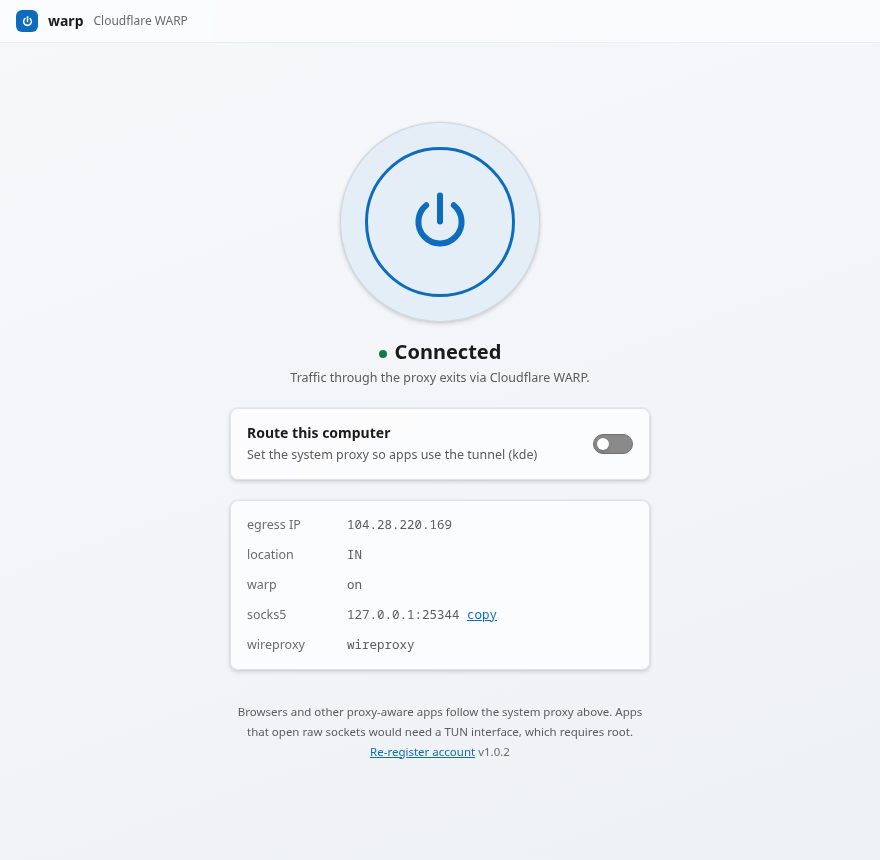
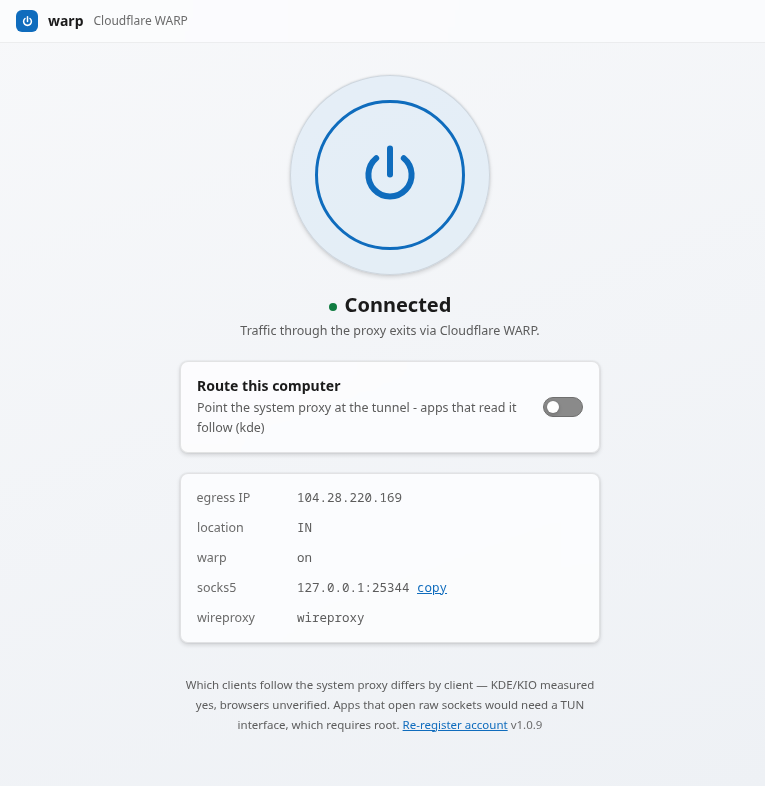
refresh the screenshots, and retract the last three copies of the claim they showed
The README's screenshots were from v1.0.2 and showed the footer sentence

  Browsers and other proxy-aware apps follow the system proxy above.

which is the claim the measurement retracted. Re-shooting them meant serving the
current UI in a real connected state (real tunnel, real Cloudflare egress) and
capturing it, dark and light, instead of leaving a picture that promised more
than the text does.

Re-shooting also found the claim still in three places - the grep that 'fixed'
the UI earlier matched the routing row's new wording and so missed these:

  - the UI footer      (what the screenshots were showing)
  - the UI's first-paint subtitle, before the JS replaces it with the
    backend-aware line - exactly the frame a screenshot catches
  - the release notes publish-release.py emits

All three now say what the README table says: KDE/KIO measured, browsers
unverified, raw sockets need a TUN (root). The screenshots were retaken from
this build, so the version string in them is the version you are reading about.

Method notes, since both captures are asserted rather than eyeballed:
  - the dark shot is the live page at 765x786 with the tunnel up
  - the harness re-applies its own dark emulation when it screenshots, so the
    light shot is the page with its own light token block injected; the injected
    values were diffed against the shipped CSS (18/18 identical) so it is the
    app's light theme and not an invention
[…]

diff --git a/warp/ui/index.html b/warp/ui/index.html
@@ -119,7 +119,7 @@ button.link{background:none;border:0;color:var(--accent);font:inherit;cursor:poi
          aria-label="Route this computer through warp">
       <div>
         <div class="t">Route this computer</div>
-        <div class="s" id="spSub">Set the system proxy so apps use the tunnel</div>
+        <div class="s" id="spSub">Point the system proxy at the tunnel - apps that read it follow</div>
       </div>
       <span class="switch" aria-hidden="true"><span class="knob"></span></span>
     </div>
@@ -135,8 +135,9 @@ button.link{background:none;border:0;color:var(--accent);font:inherit;cursor:poi
     </dl>
   </section>
   <p class="err" id="err"></p>
-  <p class="foot" id="foot">Browsers and other proxy-aware apps follow the system proxy above.
-  Apps that open raw sockets would need a TUN interface, which requires root.
+  <p class="foot" id="foot">Which clients follow the system proxy differs by client &mdash; KDE/KIO
+  measured yes, browsers unverified. Apps that open raw sockets would need a TUN
+  interface, which requires root.
   <button class="link" id="reset">Re-register account</button> <span class="ver" id="ver"></span></p>
 </main>
 

diff --git a/packaging/publish-release.py b/packaging/publish-release.py
@@ -44,8 +44,8 @@ A single-file AppImage is also attached for anyone who prefers it, or has FUSE:
 ### Honest limits
 
 - **Not a TUN device.** It is a SOCKS5 proxy plus a system-proxy setting, so
-  proxy-aware apps follow it; apps that open raw sockets do not. A TUN interface
-  would need root.
+  clients that read that setting follow it - measured for KDE/KIO, unverified for
+  browsers; apps that open raw sockets do not. A TUN interface would need root.
 - **DNS is not tunnelled by default.** UDP/53 cannot cross a SOCKS proxy. There
   is a `warp dns serve` bridge (DoH over the tunnel) and `warp dns` prints the
   exact root command for your resolver — but the system-wide step is yours to run.

diff --git a/warp/__init__.py b/warp/__init__.py
@@ -1,3 +1,3 @@
 """warp — a Cloudflare WARP client that needs no root and runs anywhere Python does."""
 
-__version__ = "1.0.8"
+__version__ = "1.0.9"
